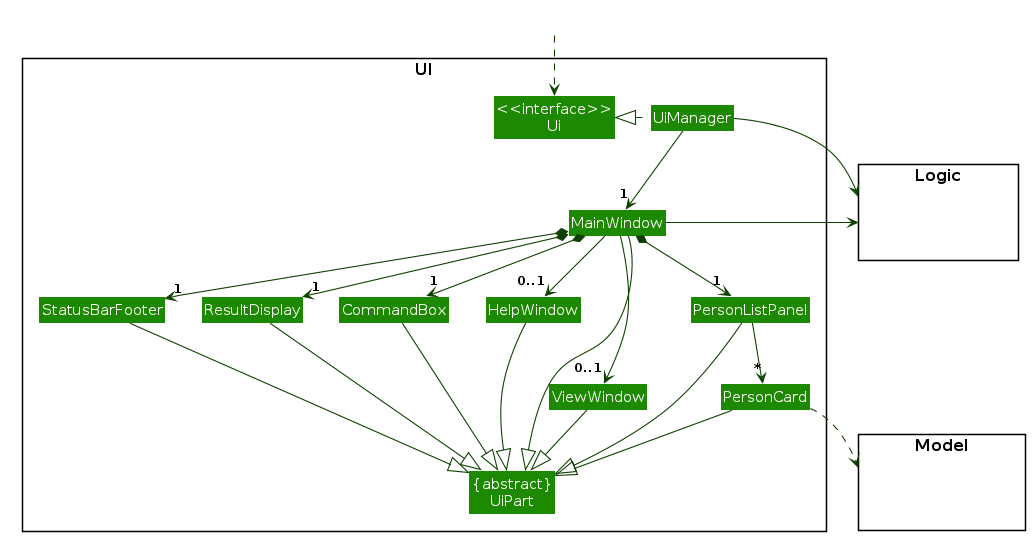
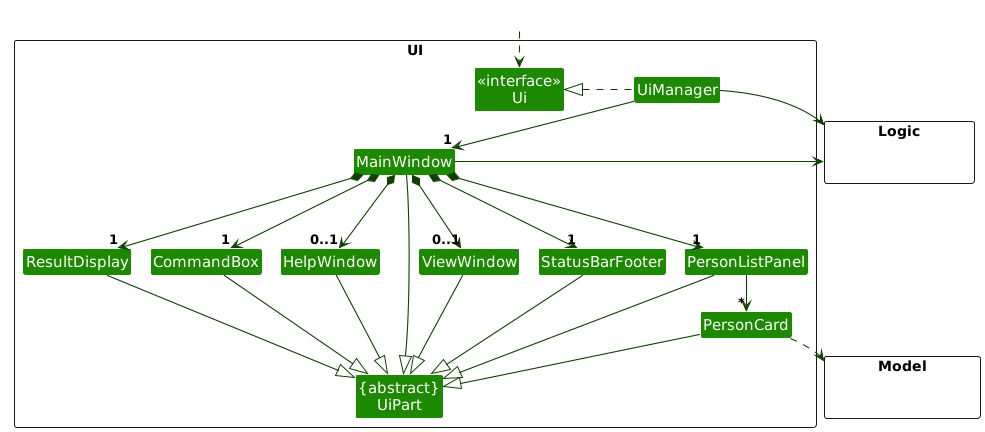
Update Architecture and Ui components

diff --git a/docs/DeveloperGuide.md b/docs/DeveloperGuide.md
@@ -26,8 +26,9 @@ Refer to the guide [_Setting up and getting started_](SettingUp.md).
 
 ### Architecture
 
-<img src="diagrams/ArchitectureDiagram.png" width="280" />
-
+<div align="center">
+    <img src="diagrams/ArchitectureDiagram.png" width="280" />
+</div>
 
 
 The ***Architecture Diagram*** given above explains the high-level design of the App.
@@ -54,8 +55,9 @@ The bulk of the app's work is done by the following four components:
 The *Sequence Diagram* below shows how the components interact with each other for the scenario where the user issues the command `delete 1`.
 
 
-
-<img src="diagrams/ArchitectureSequenceDiagram.png" width="574" />
+<div align="center">
+    <img src="diagrams/ArchitectureSequenceDiagram.png" width="574" />
+</div>
 
 Each of the four main components (also shown in the diagram above),
 
@@ -64,8 +66,9 @@ Each of the four main components (also shown in the diagram above),
 
 For example, the `Logic` component defines its API in the `Logic.java` interface and implements its functionality using the `LogicManager.java` class which follows the `Logic` interface. Other components interact with a given component through its interface rather than the concrete class (reason: to prevent outside component's being coupled to the implementation of a component), as illustrated in the (partial) class diagram below.
 
-<img src="diagrams/ComponentManagers.png" width="300" />
-
+<div align="center">
+    <img src="diagrams/ComponentManagers.png" width="300" />
+</div>
 
 The sections below give more details of each component.
 
@@ -73,7 +76,9 @@ The sections below give more details of each component.
 
 The **API** of this component is specified in [`Ui.java`](https://github.com/se-edu/addressbook-level3/tree/master/src/main/java/seedu/address/ui/Ui.java)
 
-<img src="diagrams/UiClassDiagram.png" alt="Structure of the UI Component"/>
+<div align="center">
+    <img src="diagrams/UiClassDiagram.png" alt="Structure of the UI Component"/>
+</div>
 
 The UI consists of a `MainWindow` that is made up of parts e.g.`CommandBox`, `ResultDisplay`, `PersonListPanel`, `StatusBarFooter` etc. All these, including the `MainWindow`, inherit from the abstract `UiPart` class which captures the commonalities between classes that represent parts of the visible GUI.
 
